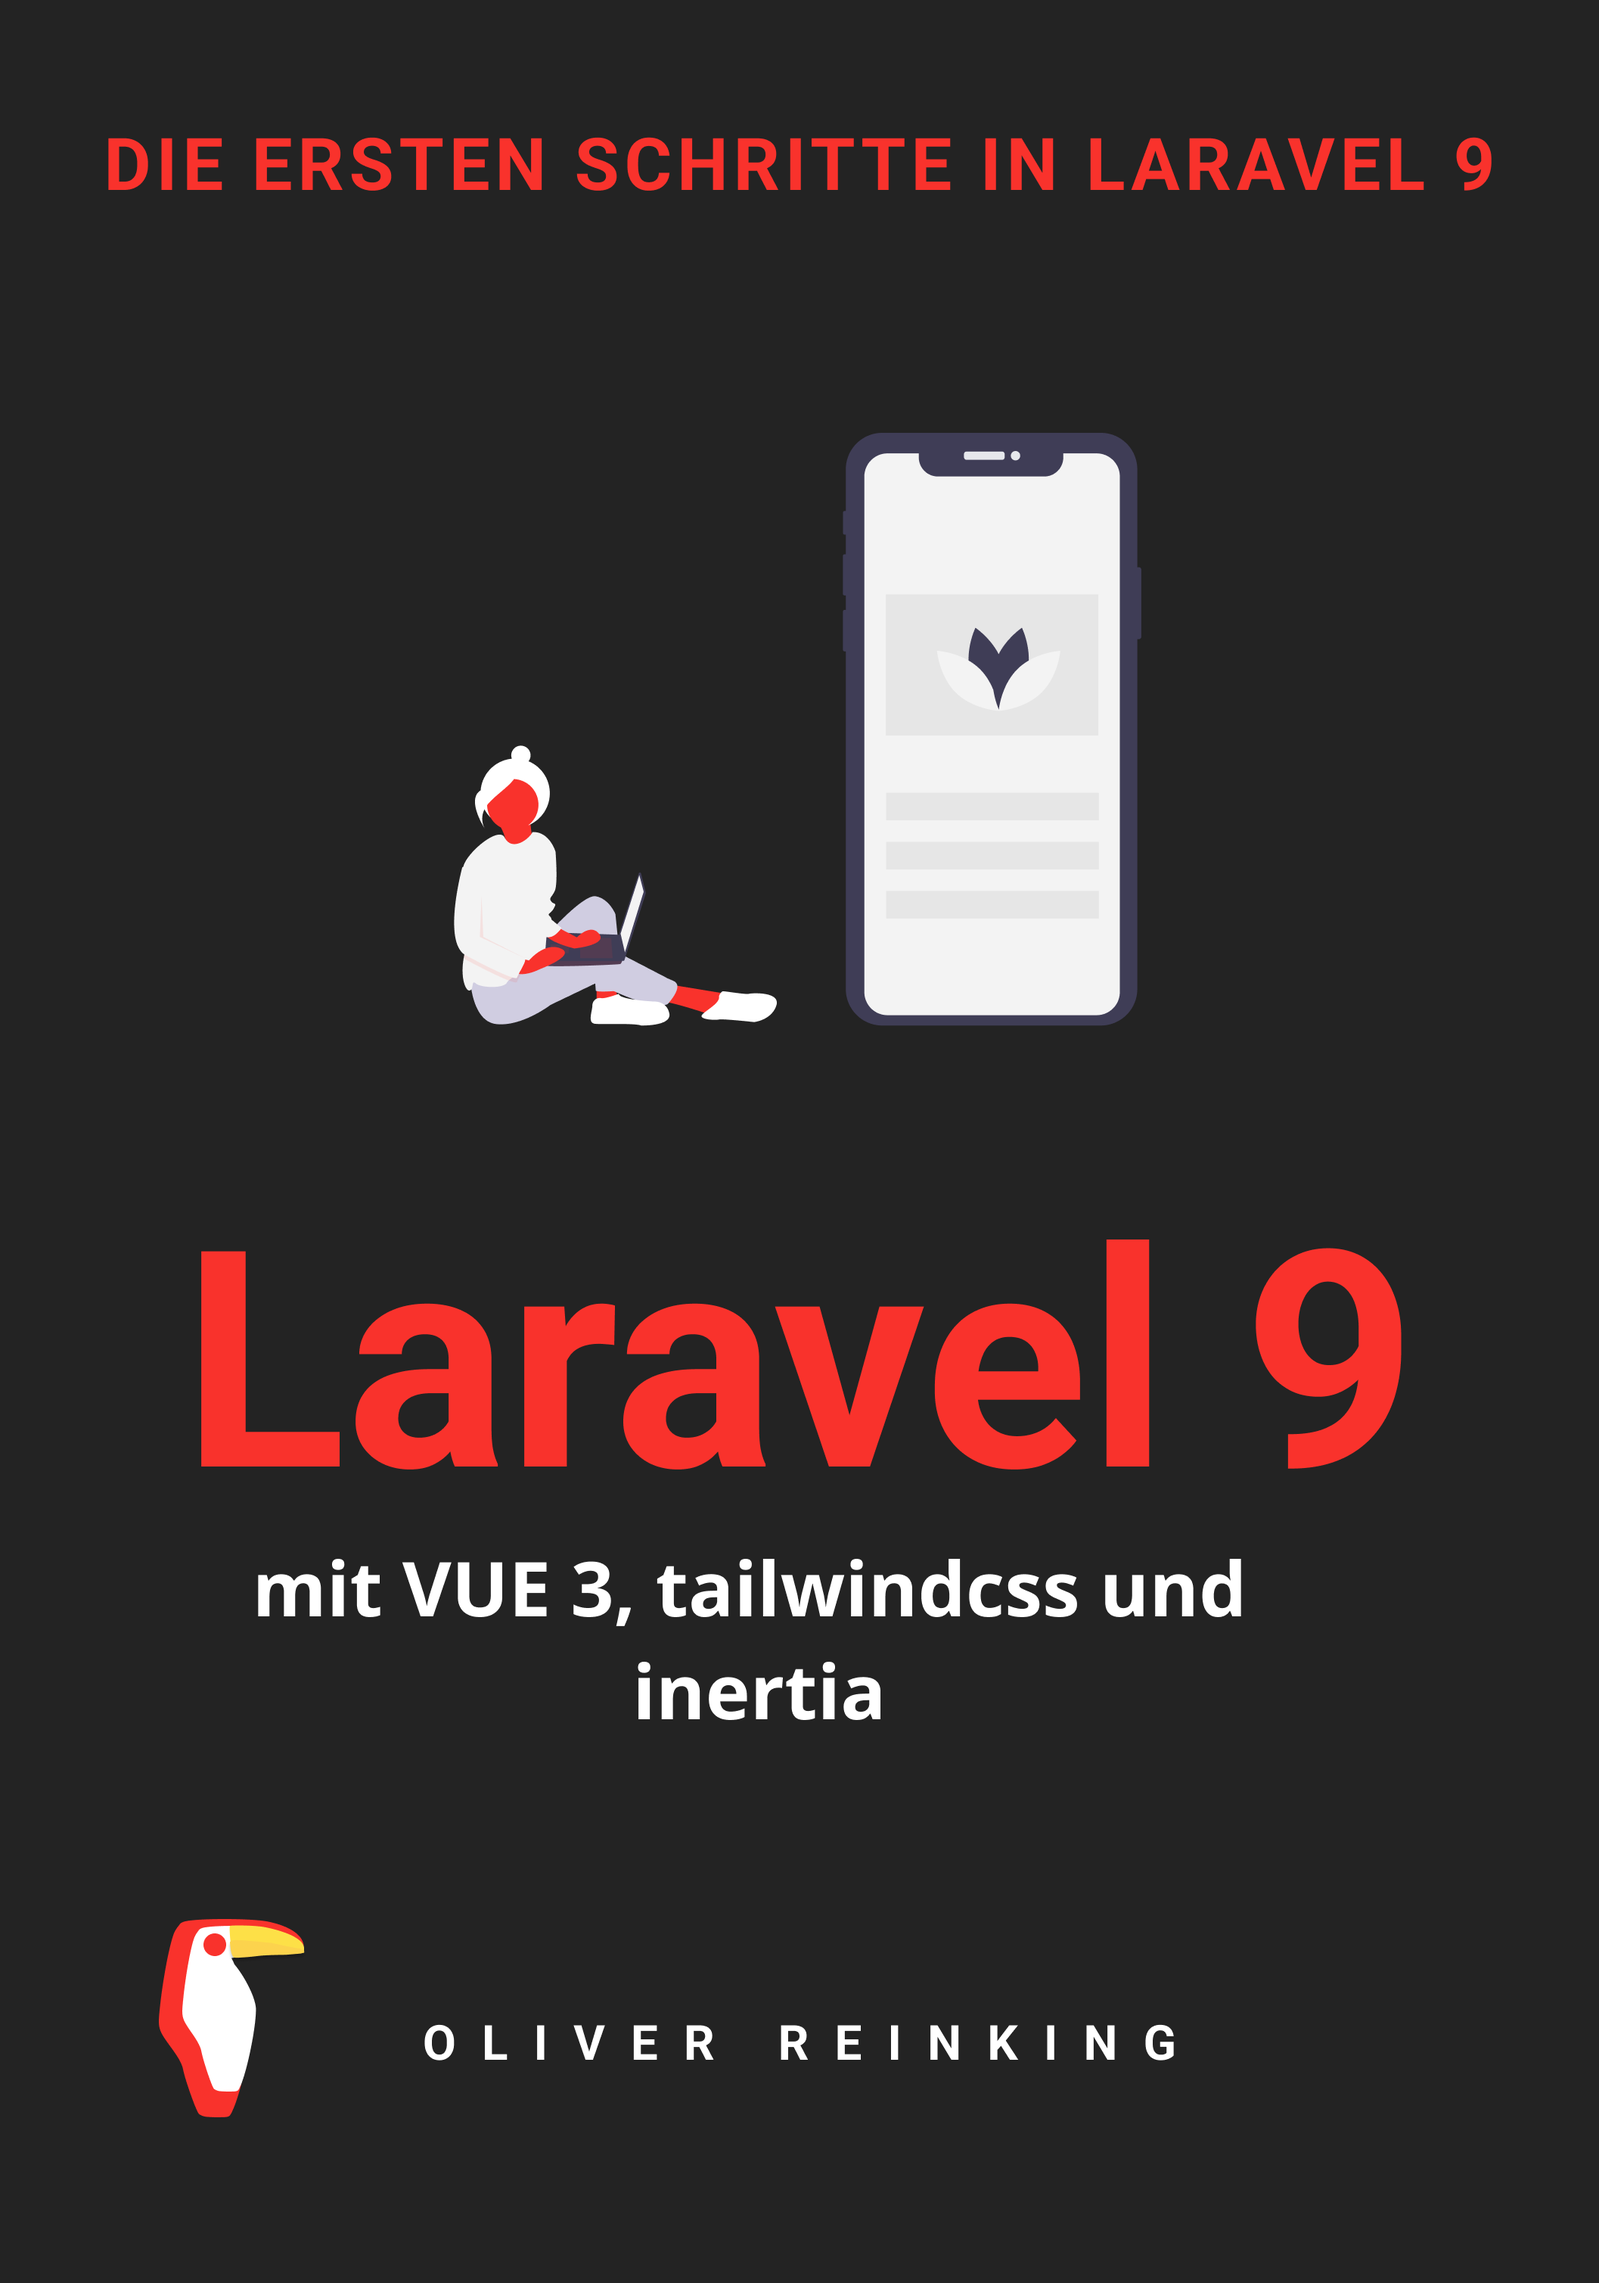
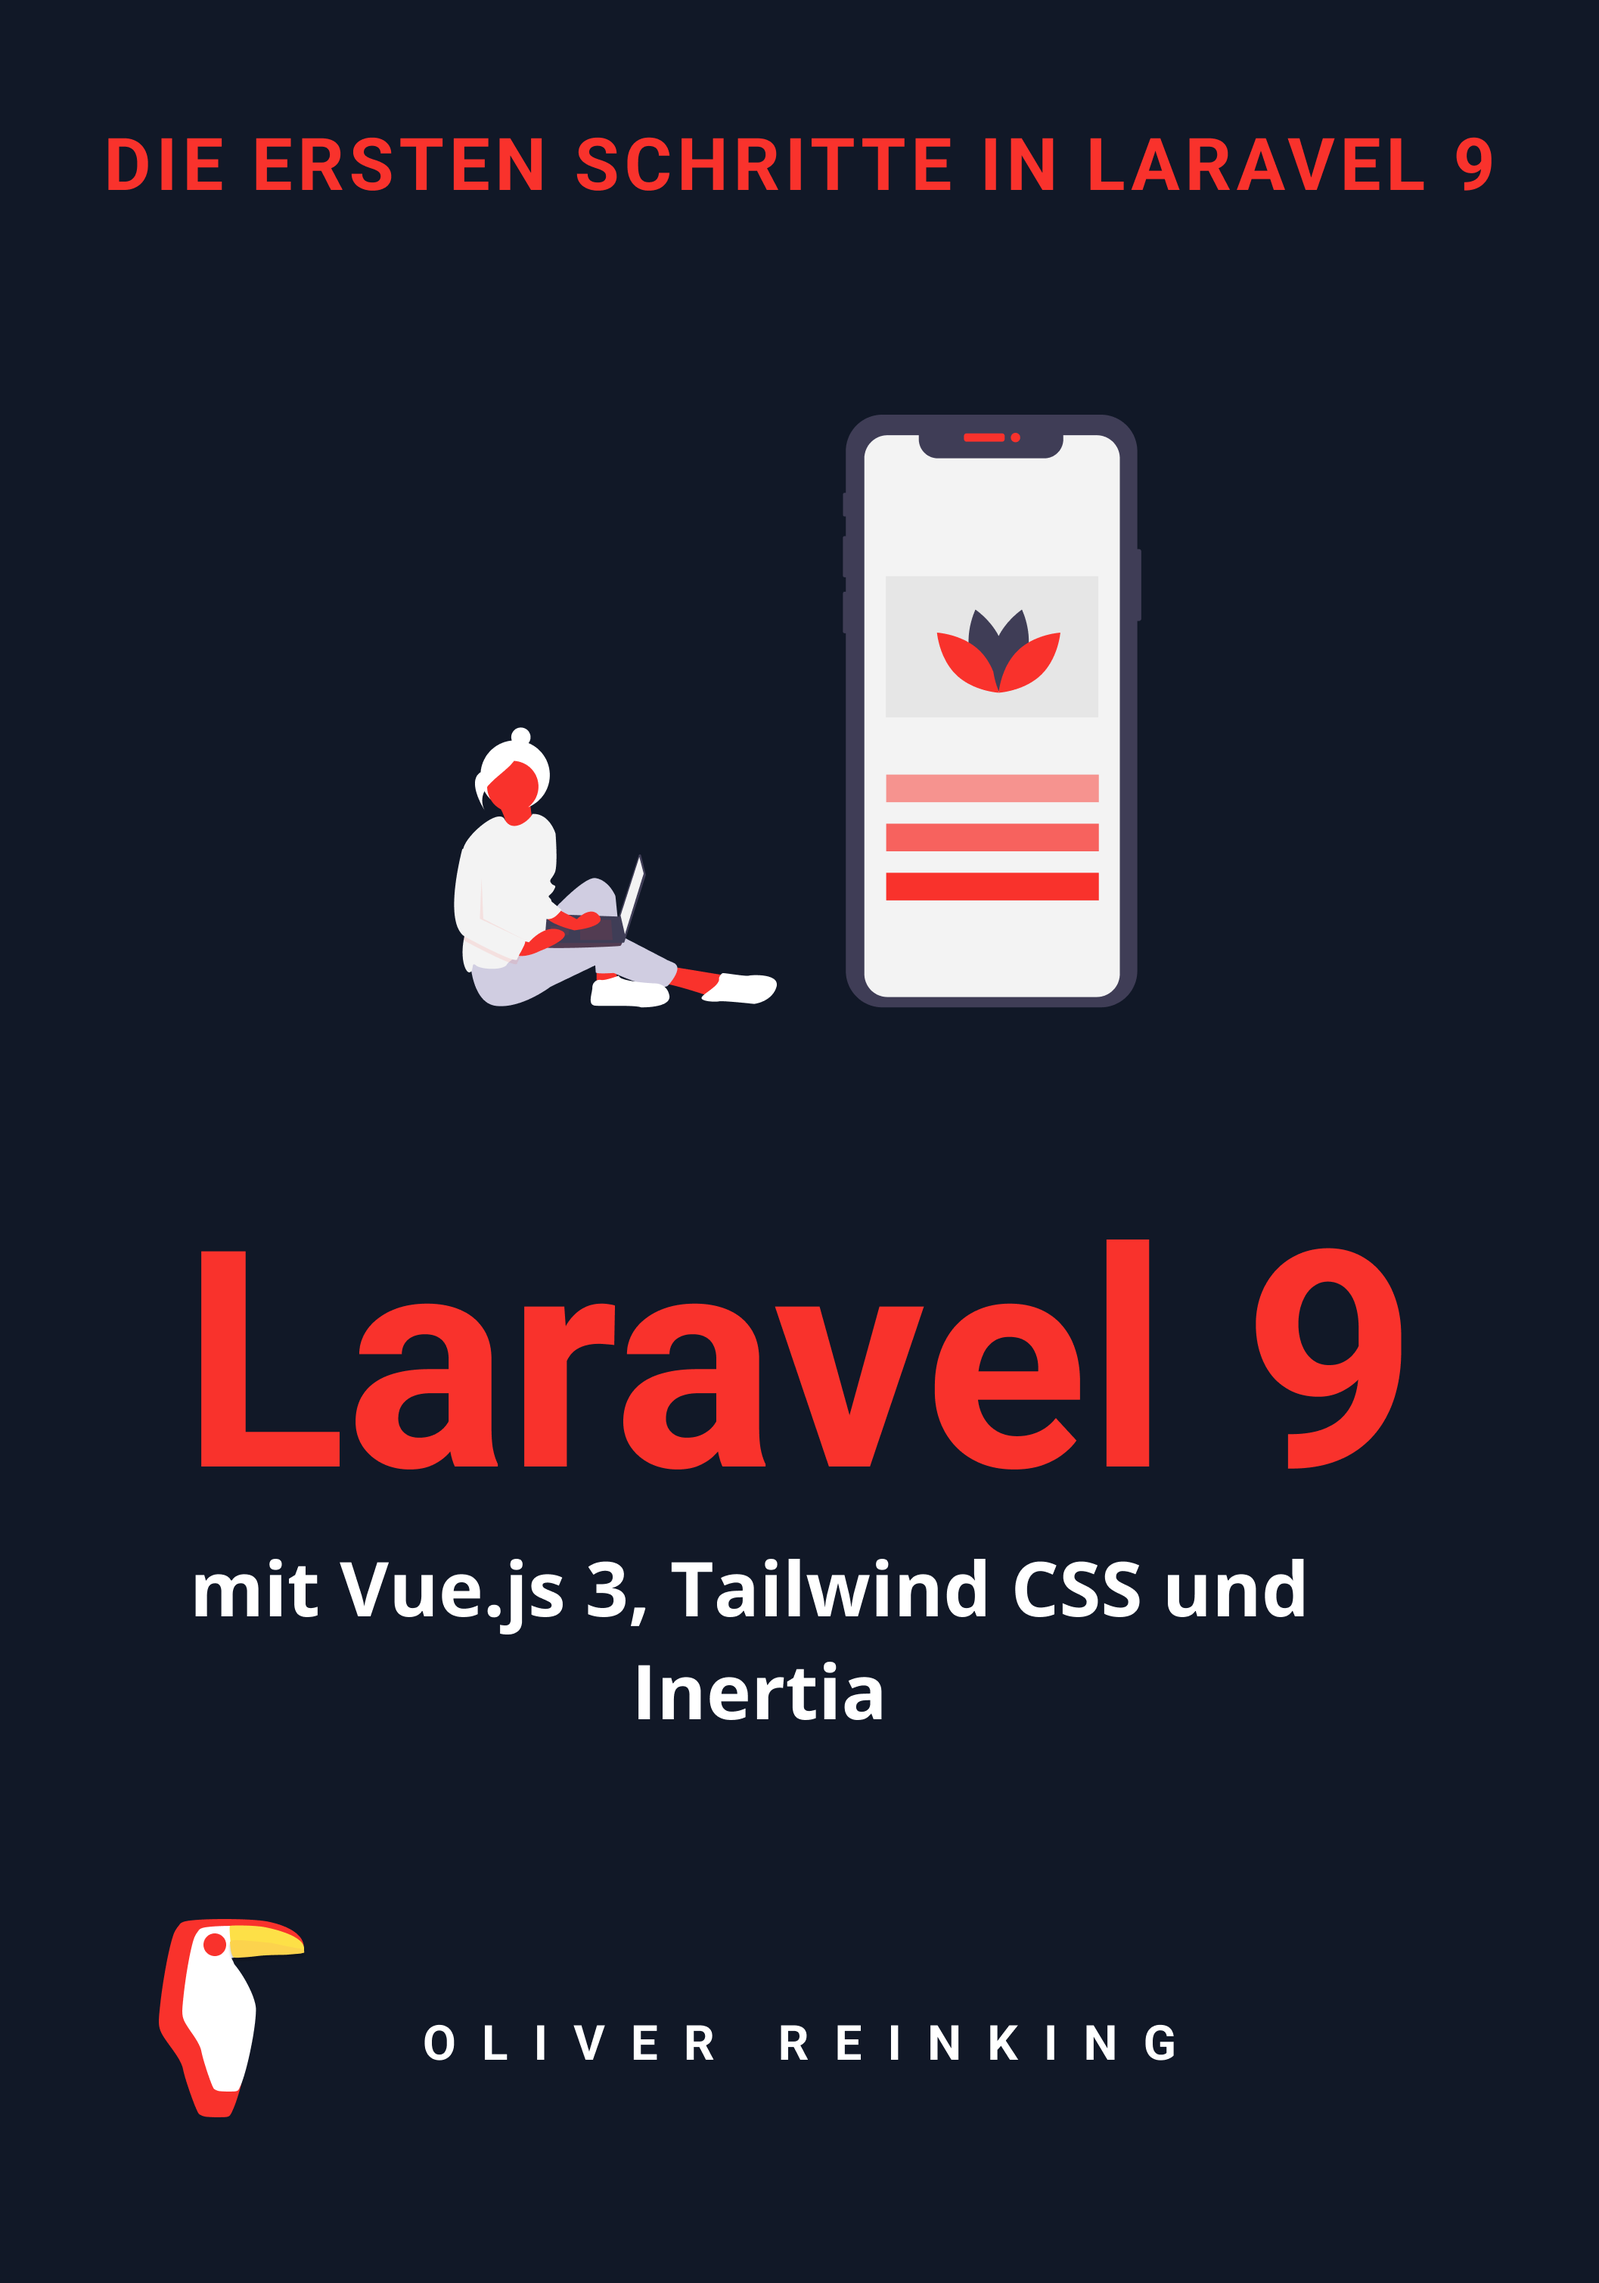
Anwendung Kunde

diff --git a/README.md b/README.md
@@ -2,10 +2,10 @@
 
 Das **Laravel Nine Starterkit** besteht aus:
 - Laravel 9
-- Vue 3
-- inertia
+- Vue.js 3
+- Inertia
 - Jetstream
-- tailwindcss
+- Tailwind CSS
 - Webseite
 - Anwendung für Administratoren
 - Anwendung für Mitarbeiter
@@ -14,23 +14,23 @@ Das **Laravel Nine Starterkit** besteht aus:
 
 ## Branches
 
-Damit du die Möglichkeit hast, die Entwicklung der Anwendung Newspilot nachzuvollziehen, habe ich unterschiedliche Entwicklungszustände in sogenannten Branches dokumentiert.
+Damit du die Möglichkeit hast, die Entwicklung der Anwendungsplattform Newspilot nachzuvollziehen, habe ich unterschiedliche Entwicklungszustände in sogenannten Branches dokumentiert.
 
 ### Installation
 Die im Kapitel "Implementierung" beschriebenen Codeänderungen findest du im Branch "installation".  
 
 ### Anwendung Homepage
-Die im Kapitel "Anwendung Homepage" beschriebenen Codeänderungen findest du im Branch "homepage".  
+Die im Kapitel Anwendung "Homepage" beschriebenen Codeänderungen findest du im Branch "homepage".  
 Hier gibt es zusätzlich noch die Brances formular-01 und formular-02.  
 
 ### Anwendung Administrator
-Die im Kapitel "Anwendung Administrator" beschriebenen Codeänderungen findest du im Branch "administrator".  
+Die im Kapitel Anwendung "Administrator" beschriebenen Codeänderungen findest du im Branch "administrator".  
 
-### Anwendung Redakteur
-Die im Kapitel "Anwendung Redakteur" beschriebenen Codeänderungen findest du im Branch "employee".  
+### Anwendung Mitarbeiter
+Die im Kapitel Anwendung "Mitarbeiter" beschriebenen Codeänderungen findest du im Branch "employee".  
 
-### Anwendung Leser
-Die im Kapitel "Anwendung Leser" beschriebenen Codeänderungen findest du im Branch "customer".  
+### Anwendung Kunde
+Die im Kapitel Anwendung "Kunde" beschriebenen Codeänderungen findest du im Branch "customer".  
 
 ## Installation
 
@@ -85,9 +85,9 @@ Anwendung im Browser aufrufen mit **newspilot.test**
 
 ## Buch **Laravel 9**
 
-In meinen Buch **Laravel 9** habe ich die Implementierung der obigen Anwendung **Newspilot** im Detail beschrieben.  
+In meinen Buch **Laravel 9** habe ich die Implementierung der obigen Anwendungsplattform **Newspilot** im Detail beschrieben.  
 
-![Laravel 9](https://github.com/OliverReinking/laravel-nine-starterkit/blob/master/public/images/Vorderseite_Blau_4.png)
+![Laravel 9](https://github.com/OliverReinking/laravel-nine-starterkit/blob/master/public/images/Vorderseite_Dunkel.png)
 
 ## Anwendungsbeschreibung
 
@@ -112,9 +112,11 @@ Darunter habe ich folgende Unterverzeichnisse angelegt:
 
 #### Homepage (resources/js/Pages/Application)
 Das Verzeichnis Homepage enthält die Webseiten:
+- About.vue
+- Contact.vue
 - Home.vue (die Startseite der Homepage)
 - Imprint.vue
-- JobApplication.vue (Bewerbungsformular)- 
+- JobApplication.vue (Bewerbungsformular)
 - Mission.vue
 - NoApplicationFound.vue
 - NoPageFound.vue
@@ -129,6 +131,39 @@ Hier habe ich die Funktion share angepasst.
 ### RouteServiceProvicer
 Hier habe ich die Konstante Home angepasst. 
 
+## Funktionsumfang "Newspilot"
+In diesem Abschnitt möchte ich den Funktionsumfang der Anwendungsplattform "Newspilot" zusammenfassen:  
+- Registrierungsformular
+- Login-Formular
+- Kennwort-Vergessen-Formular
+- Formular zur Änderung der persönlichen Daten
+    - Änderung des Namens und der Mailadresse
+    - Hochladen eines "Anwenderbildes"
+    - Aktivierung einer Zwei-Faktor-Authentifizierung
+    - Löschen des Accounts
+- Homepage
+    - mit Formular (in unserem Beispiel ein Bewerbungsformular)
+        - Versand der im Formular eingegebenen Daten per Mail
+    - Impressum und Datenschutzerklärung
+        - Basis sind jeweils Markdown-Dateien
+    - Nacht-Modus
+        - der Anwender hat die Möglichkeit, einen Nach-Modus einzuschalten
+- Anwendung für "Administratoren"
+    - Startseite (Dashboard) mit Statistikwerten
+    - Liste aller Anwender inklusive Anwendersuche
+    - Anzeige aller Daten eines Anwenders
+    - Formular zum Abändern von Anwenderdaten
+    - Löschen eines Anwenders
+    - Seite mit allen verwendeten Child-Komponenten (Documentation.vue)
+- Anwendung für "Mitarbeiter"
+    - Startseite (Dashboard)
+- Anwendung für "Kunde"
+    - Startseite (Dashboard)
+- die Anwendungen "Administrator", "Mitarbeiter" und "Kunde"
+    - besitzen einen Header und einer Sidebar
+    - besitzen eine "Brotkrümel-Navigation" (Child-Komponente Breadcrumb.vue)
+    - besitzen einen "Anwendungswechsler"
+    - besitzen einen "Nacht-Modus"
 
 ## License
 

diff --git a/resources/markdown/documentation.md b/resources/markdown/documentation.md
@@ -213,6 +213,14 @@ Verzeichnis: resources/js/Pages/Components/Content
 </details>
 
 <details>
+    <summary>PageTitle.vue</summary>
+
+    props
+    - title
+
+</details>
+
+<details>
     <summary>SectionBorder.vue</summary>
 
 </details>
